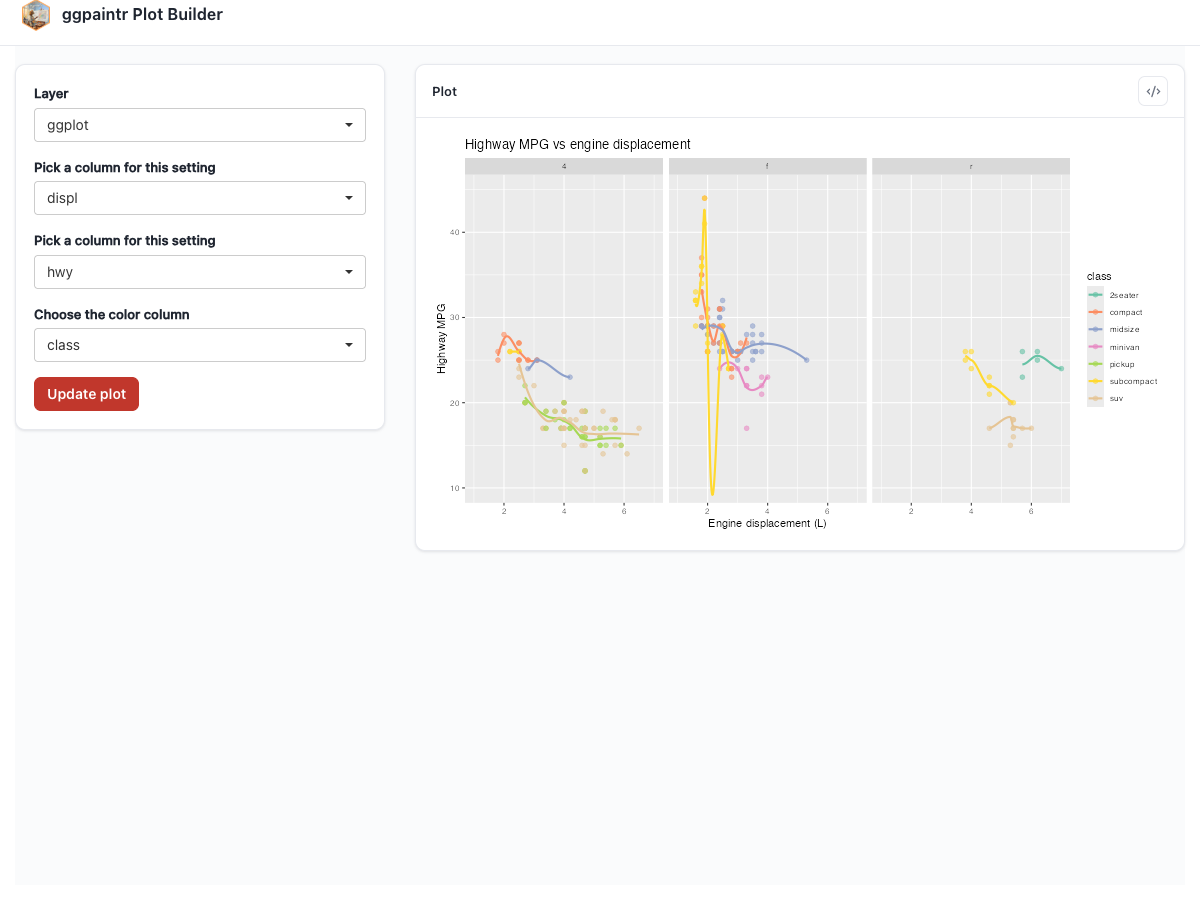
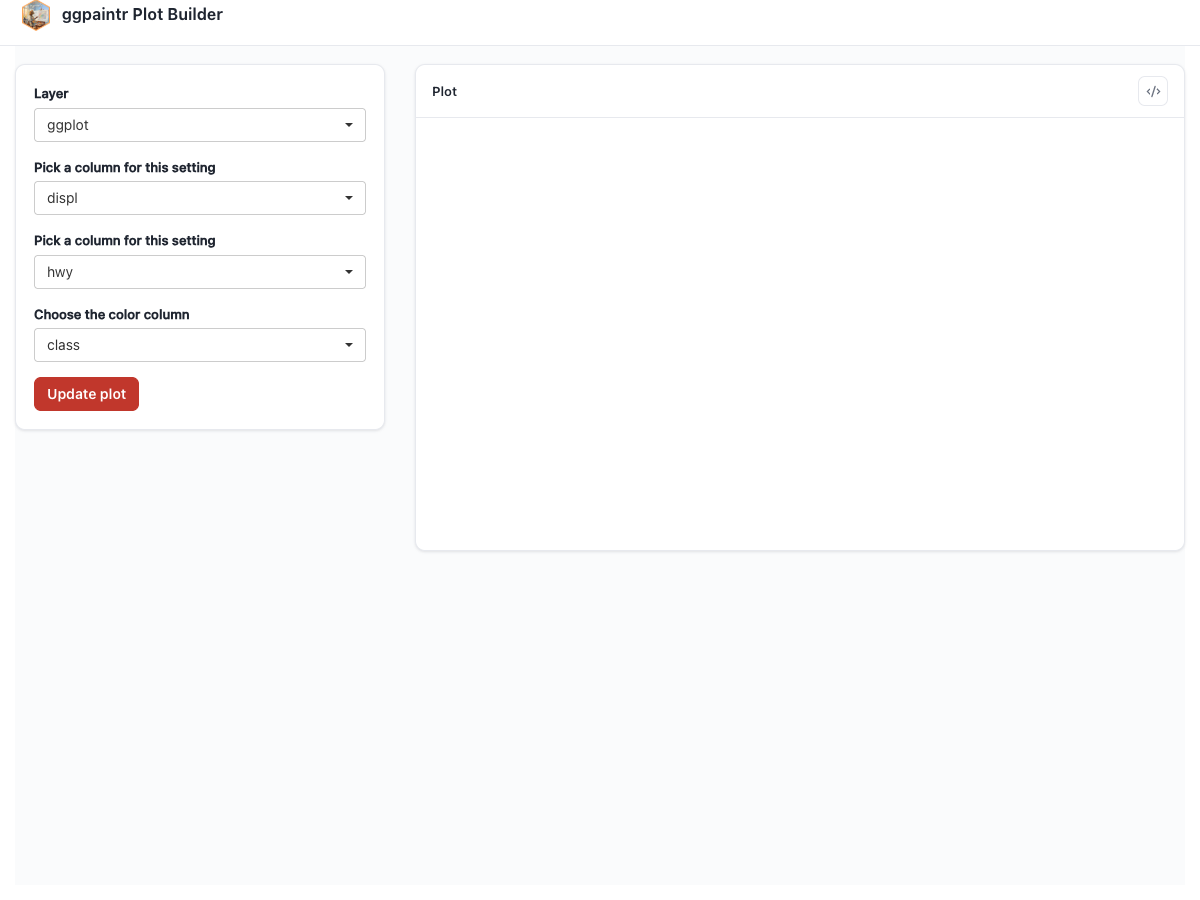
Fix audit findings: align book claims with ggpaintr source at pinned SHA
Source-of-truth audit of all 20 chapters against ggpaintr @ 76a4126
(8 parallel audit agents + independent spot-checks; gate PASS after fixes).

Errors fixed (reader-facing falsehoods):
- safety: expr_check = FALSE is not a full off switch (ppExpr re-screen is
  hardcoded on); drop the allow_list = "read.csv" remedy, which cannot work
  (strict whole-formula whitelist + substitution-time re-screen); document
  allow_list's real strict-whitelist semantics
- custom-placeholders: real validate_session_input contract (TRUE/NULL
  accepts, string rejects); rewrite shortcut-source example (resolve_data
  never receives the typed name; framework owns the env lookup); seed
  widgets from `selected` only per the widget-seeding contract
- cheatsheet: correct ptr_app signature (no `...`, has safe_to_remove);
  ui_text section is `upload`, not ppUpload; allow_list/deny_list glosses
- generated-code: normalization is not make.names() (custom gsub +
  make.unique + reserved-word suffix)
- shared-placeholders: shared keys bind at shared_<key>, not the
  layer-derived id; reserve shared_ prefix; add ptr_code_mode to id list
- customization: shared-panel classes are __help/__tip, not __hint
- custom-render: extras never enter state$runtime()$code_text; warn that
  custom panels drop them unless they use ptr_extract_code()
- embed-bare: output-block recipe is exact for ptr_ui(), cosmetically
  different from ptr_app()
- formula-language: lambda pipe stages run but are silently inert in the
[…]

diff --git a/CLAUDE.md b/CLAUDE.md
@@ -52,7 +52,7 @@ When you change anything that touches a fixture, a chunk, prose mentioning a `pt
 ## Display modes
 
 - Default: verbatim code chunk + screenshot/GIF (`book-conventions.md` § "The Shiny rendering problem").
-- Hero chapters (initially `getting-started.qmd`, `formula-language.qmd`) embed shinylive widgets. A chapter is a hero only if a reader gains real value from poking at it; see [ADR 0002](docs/adr/0002-hybrid-display.md) for the rationale and fallback rules.
+- Shinylive heroes are deferred (NO-GO, see `dev/notes/2026-06-10-shinylive-spike.md`): ggpaintr has no wasm distribution channel, so no chapter sets `shinylive: true` and the gate truthfully reports `Shinylive: 0/0`. The would-be heroes (`getting-started.qmd`, `formula-language.qmd`) are authored screenshot-only under [ADR 0002](docs/adr/0002-hybrid-display.md)'s fallback rule; revisit only if ggpaintr ships wasm builds (CRAN or r-universe).
 
 ## Out of scope
 
